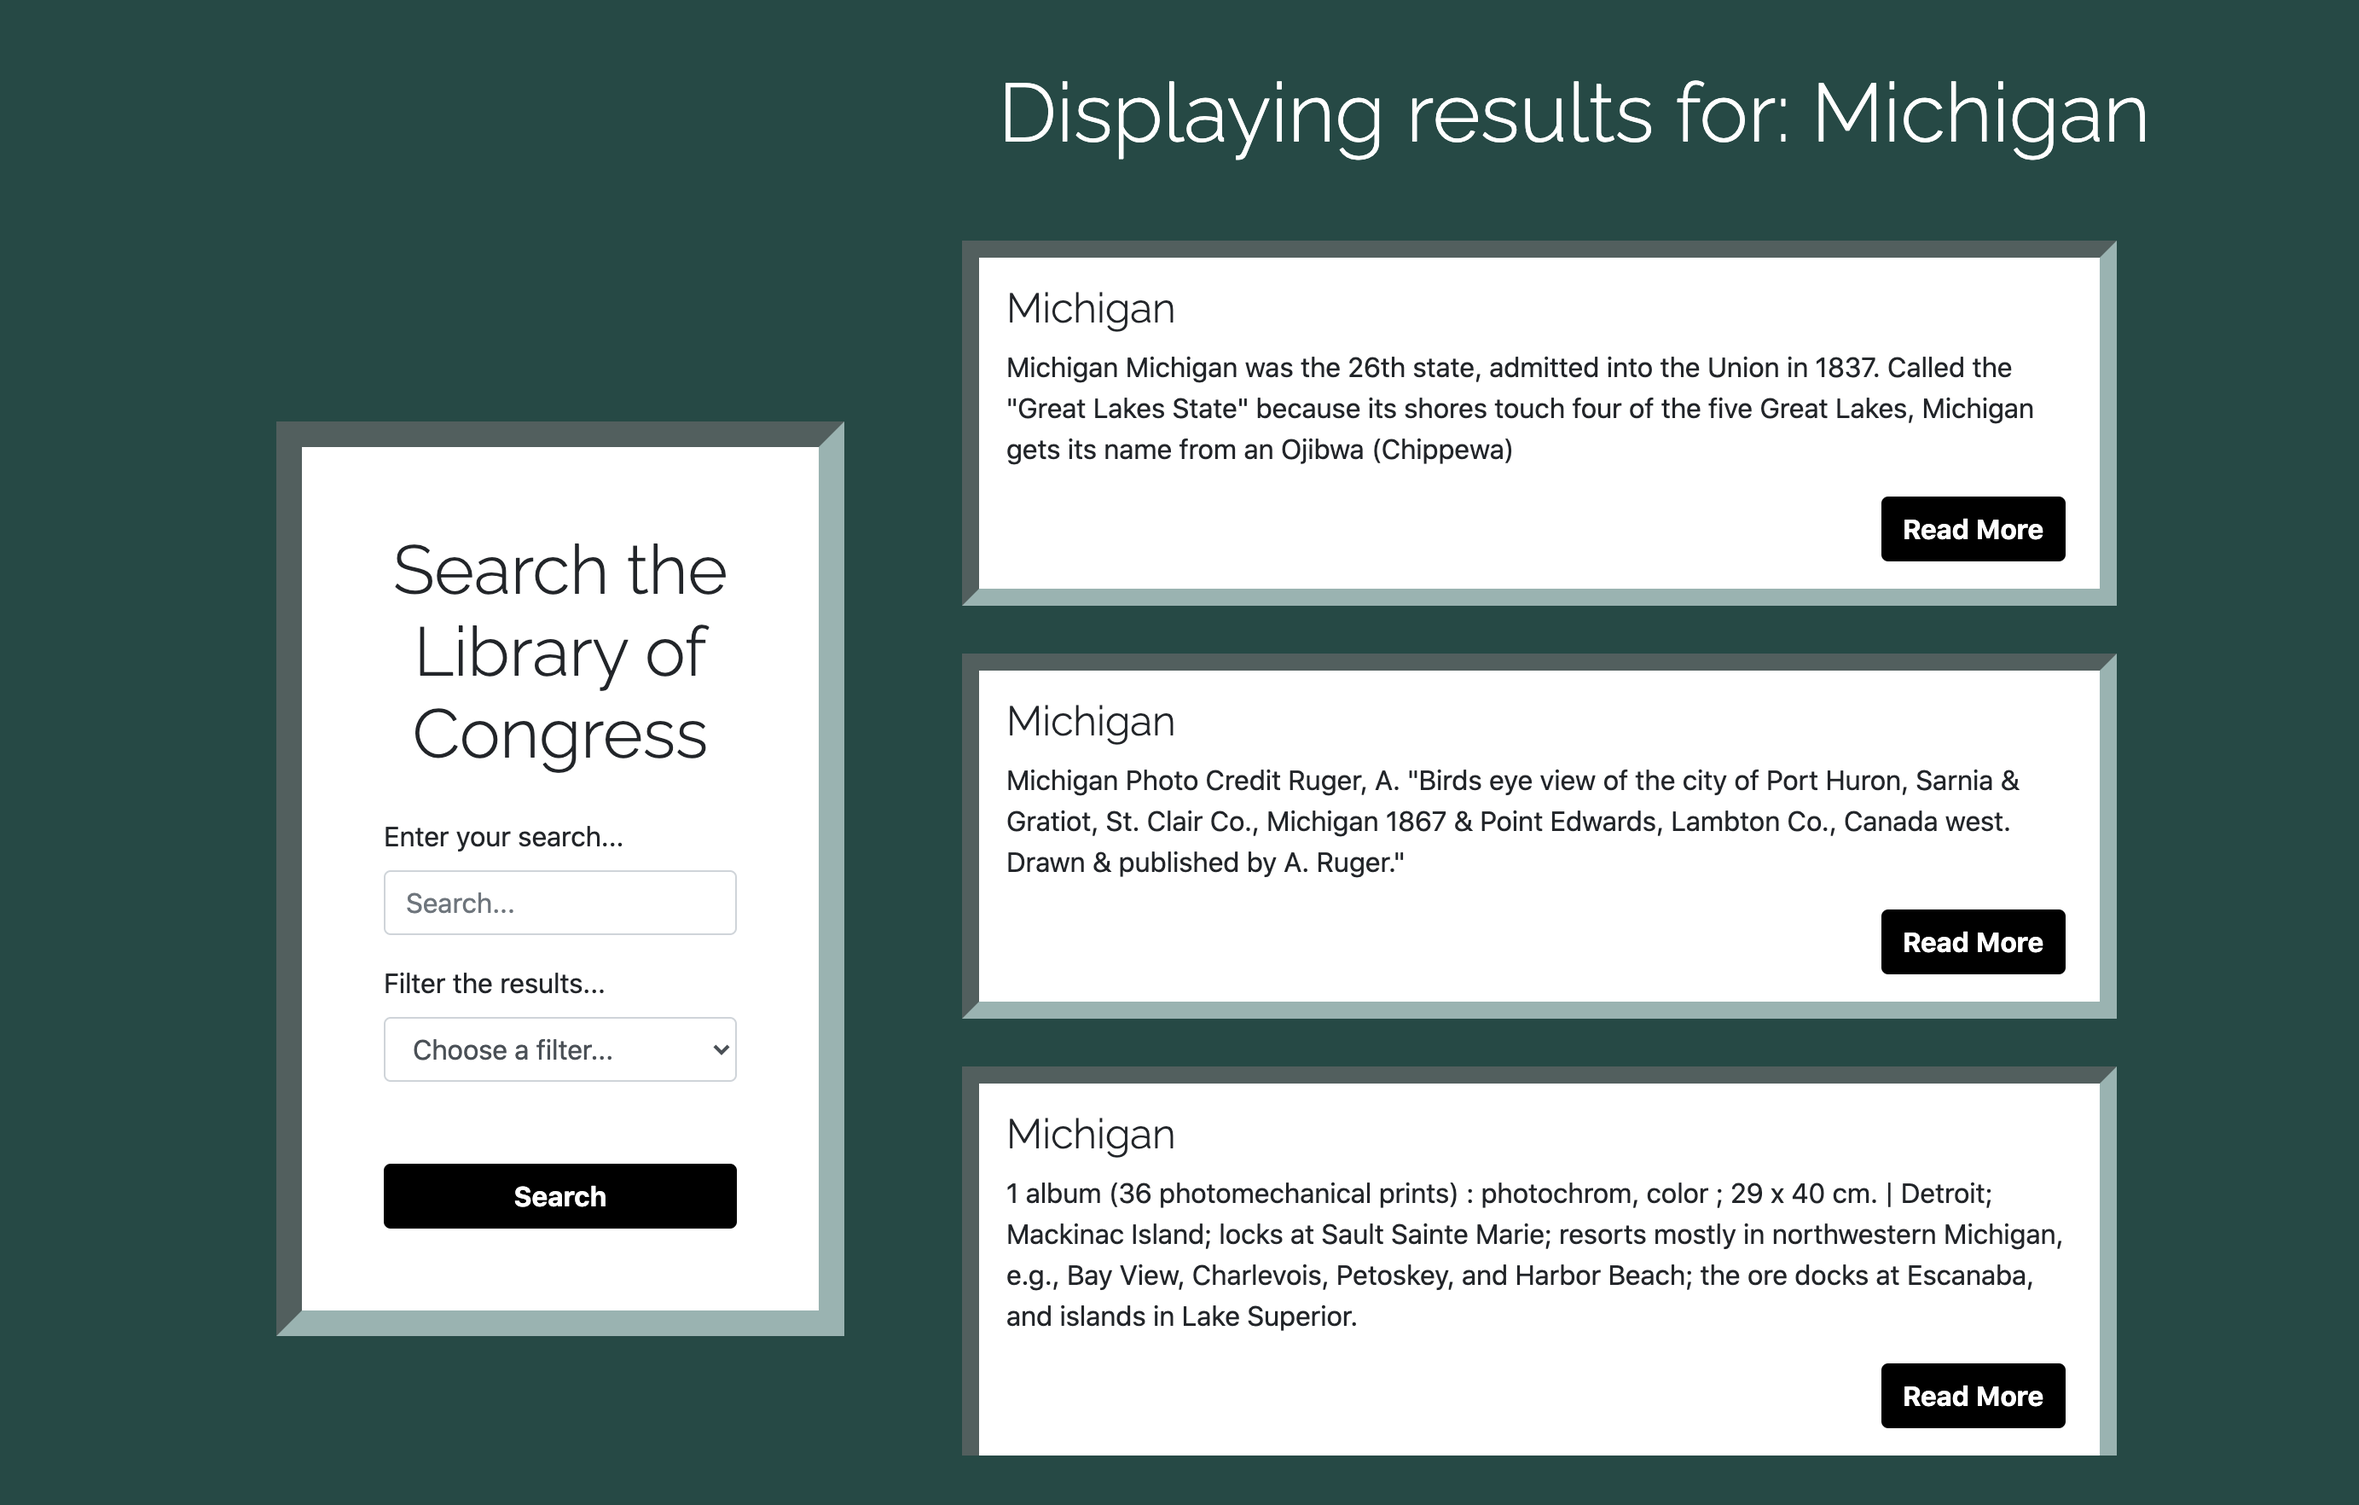
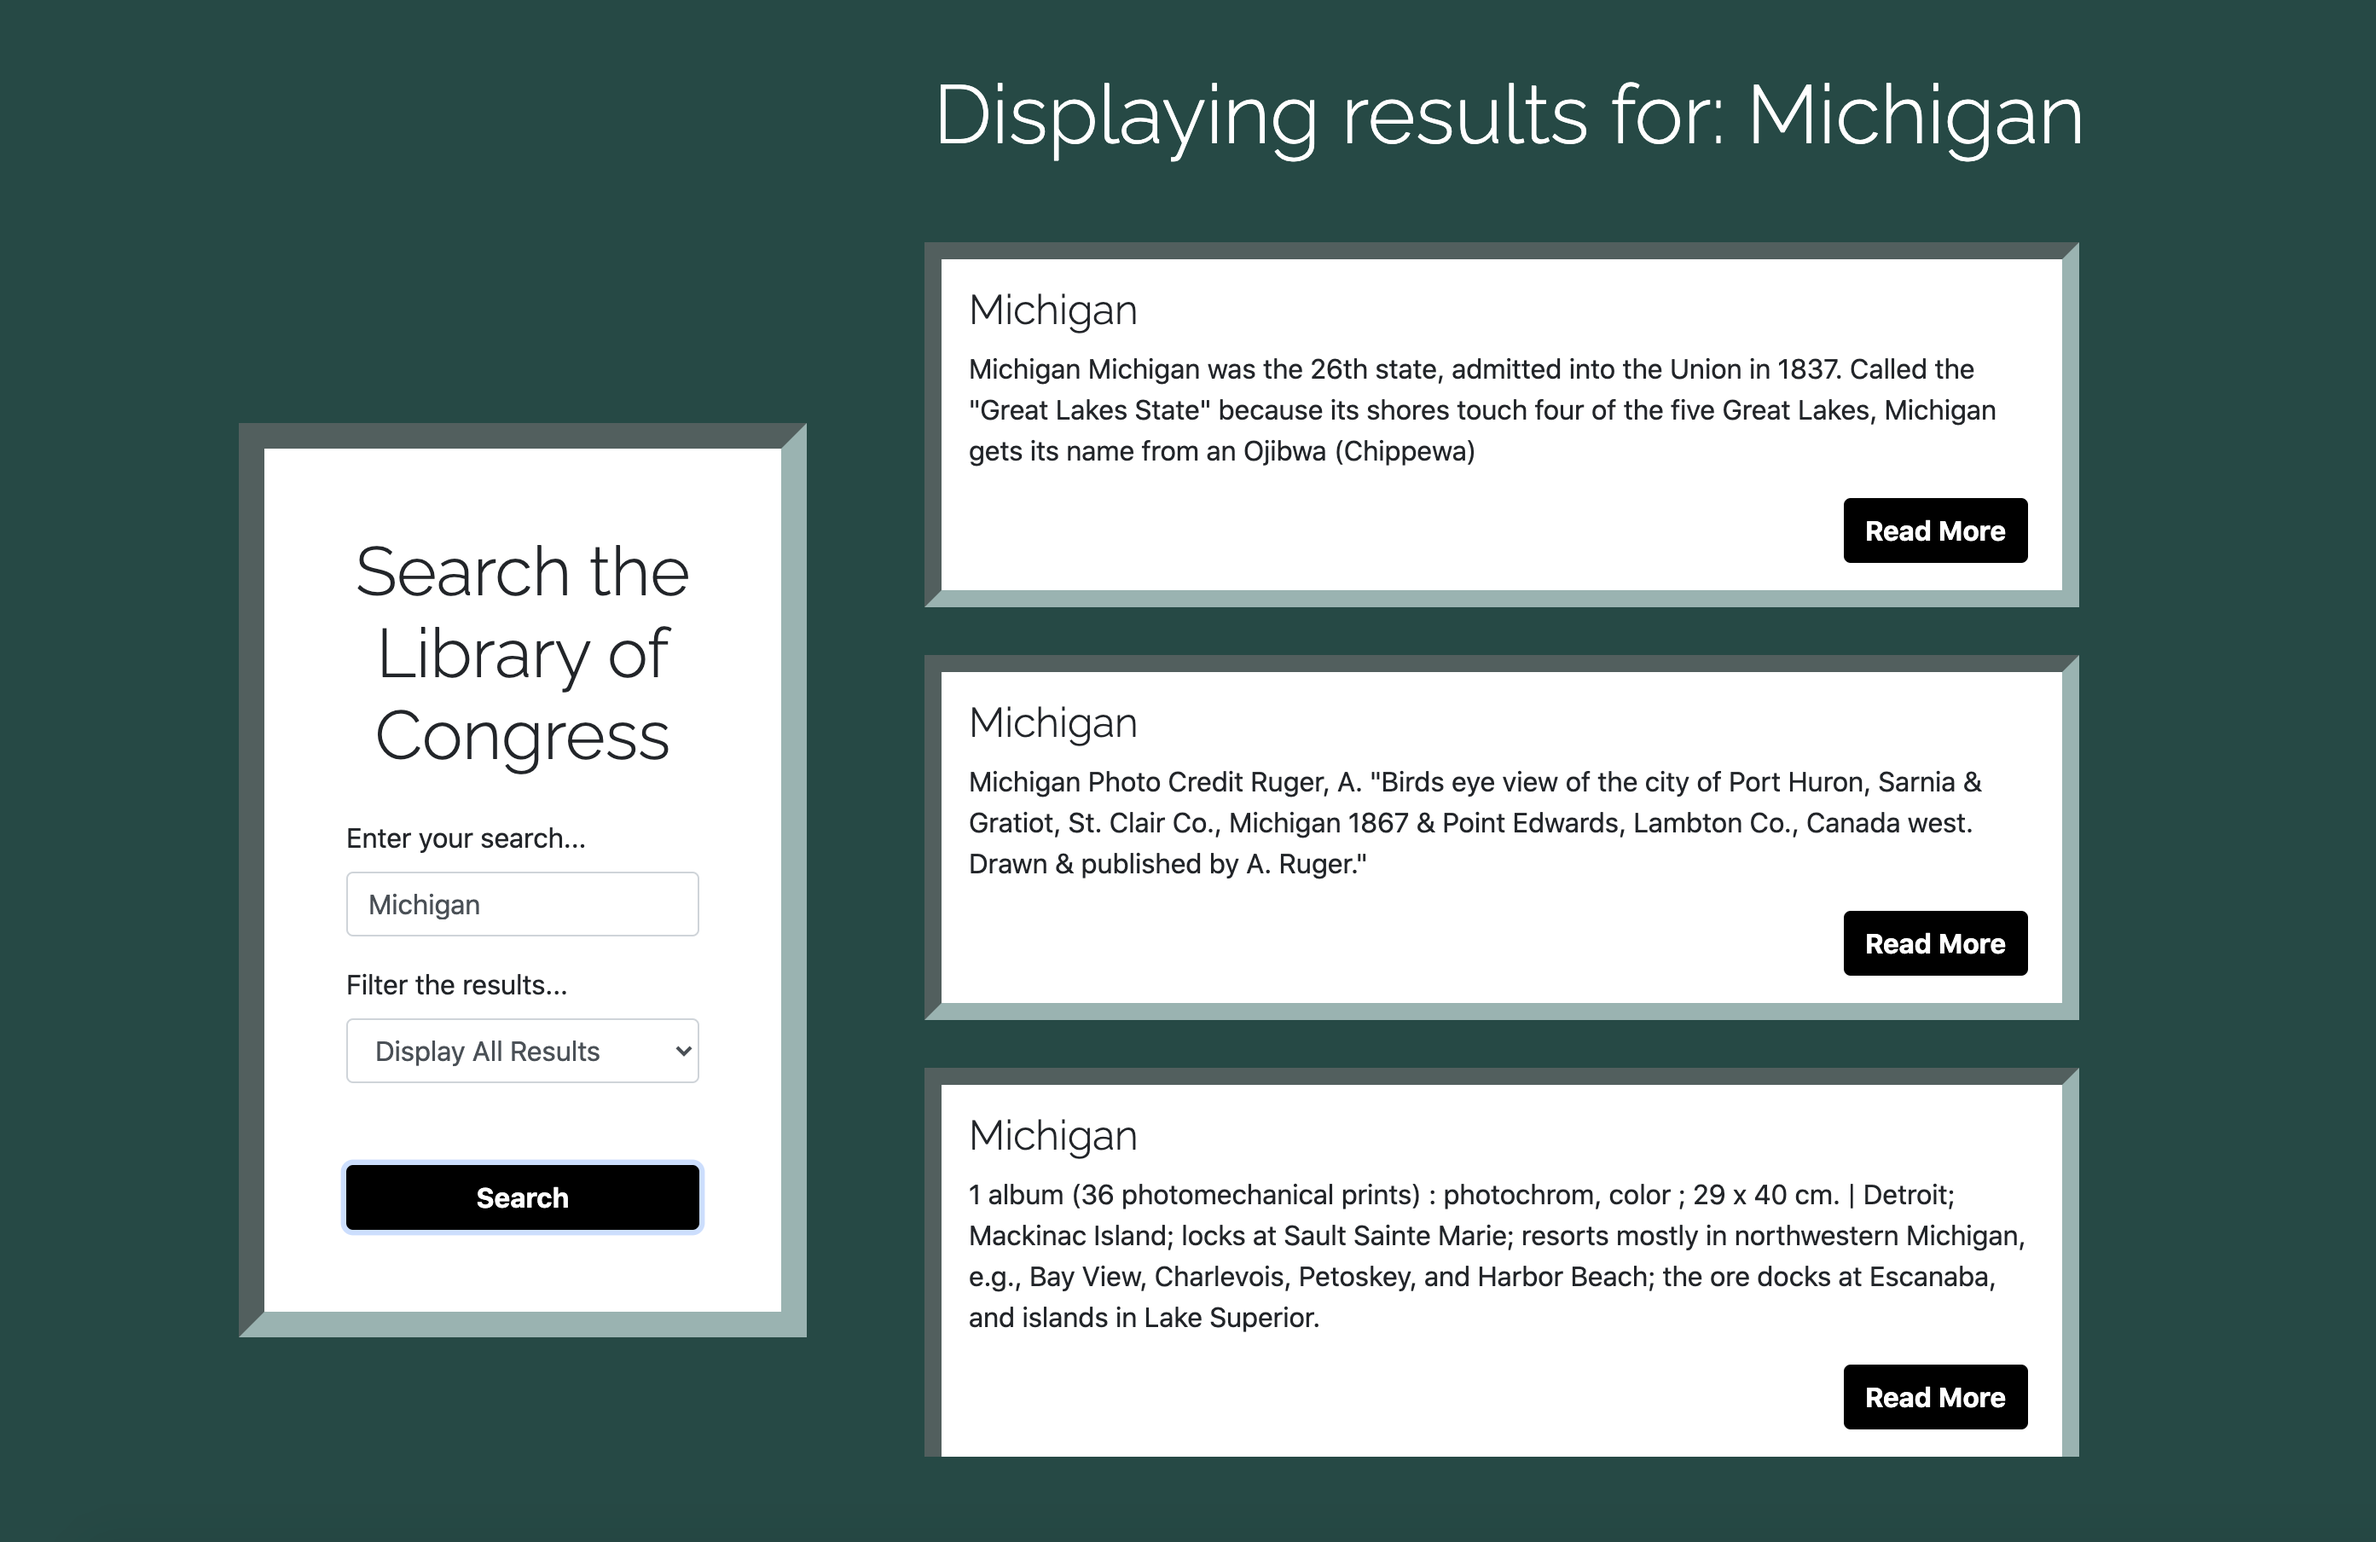
added deployed link, minor CSS change, new screenshot to reflect new CSS

Changed region(s): [[0.0933, 0.1559, 0.9017, 0.9666], [0.4042, 0.0624, 0.9017, 0.0935]]

diff --git a/style.css b/style.css
@@ -50,7 +50,6 @@ body {
 #results-title {
     font-family: 'Raleway', sans-serif;
     font-size: 3rem;
-    margin-left: 2rem;
 }
 
 #results-container {

diff --git a/README.md b/README.md
@@ -31,7 +31,7 @@ A couple ideas for future development include:
             
 ## Installation
 
-The application can be viewed live here:
+The application can be viewed live here: https://vruss14.github.io/search-library-of-congress/
 
 No installation steps are necessary.
 
